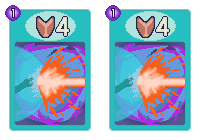
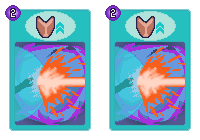
バフは引き継ぎ、ガードのコスト変更、アタックカードダメージ変更、タイトル画像追加。画像追加。チュートリアルスキップ。

diff --git a/CardManager.cpp b/CardManager.cpp
@@ -783,7 +783,7 @@ void CardManager::DeckSet()
 		for (int i = 0; i < attackMaxBattle; i++)
 		{
 			std::unique_ptr<AttackCard> attackC = std::make_unique<AttackCard>();
-			attackC->Initialize(1, 3);
+			attackC->Initialize(1, 5);
 			attackC->SetCardOrder(*ITR);
 			deck2.push_back(std::move(attackC));
 
@@ -792,7 +792,7 @@ void CardManager::DeckSet()
 		for (int i = 0; i < guardMaxBattle; i++)
 		{
 			std::unique_ptr<GuardCard> guardC = std::make_unique<GuardCard>();
-			guardC->Initialize();
+			guardC->Initialize(2);
 			guardC->SetCardOrder(*ITR);
 			deck2.push_back(std::move(guardC));
 
@@ -810,7 +810,7 @@ void CardManager::DeckSet()
 		for (int i = 0; i < deBuffMaxBattle; i++)
 		{
 			std::unique_ptr<DeBuffCard> deBuffC = std::make_unique<DeBuffCard>();
-			deBuffC->Initialize(2);
+			deBuffC->Initialize(1);
 			deBuffC->SetCardOrder(*ITR);
 			deck2.push_back(std::move(deBuffC));
 

diff --git a/Title.h b/Title.h
@@ -6,9 +6,21 @@
 #include "CardManager.h"
 #include "Tutorial.h"
 
+enum TITLESTATE
+{
+	TITLE,
+	TUTORIAL
+};
+
 class TitleScene :public Iscene
 {
 private:
+
+	Mouse mouse;
+	int state = TITLE;
+
+	int skipGauge = 120;
+
 	KeyboardInput& key;
 	bool isEnd;
 
